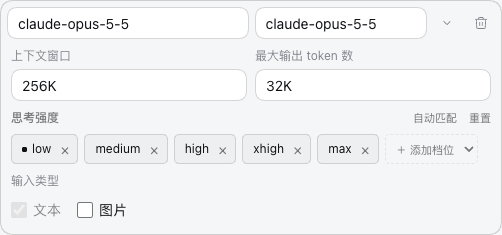
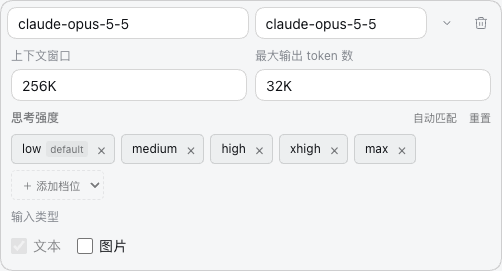
fix: 明确标识模型默认思考档位
将默认档位的小圆点替换为 default 标签，并区分当前默认值与设为默认的提示。

补充默认标签在切换、折叠、保存读回和重置后的页面验证，更新界面截图与验证记录，版本升级为 0.3.1。

diff --git a/src/styles.css b/src/styles.css
@@ -5,6 +5,6 @@
 .dme button:disabled,.dme select:disabled{opacity:.4;cursor:default}.dme-actions button:not(:disabled):hover{color:inherit}
 .dme-chips{display:flex;align-items:center;flex-wrap:wrap;gap:6px;min-height:30px}.dme-chip{display:inline-flex;align-items:center;gap:8px;border:1px solid var(--dme-border);background:color-mix(in srgb,currentColor 3%,transparent);border-radius:6px;padding:5px 7px 5px 10px;font-size:12px;line-height:18px}
 .dme-chip button{border:0;background:transparent;color:var(--dme-muted);padding:0 1px;font:inherit;font-size:15px;line-height:18px;cursor:pointer}.dme-chip button:not(:disabled):hover{color:inherit}
-.dme-chip .dme-level{display:inline-flex;align-items:center;gap:5px;font-size:12px;color:inherit;padding:0}.dme-dot{width:5px;height:5px;border-radius:50%;background:currentColor}
+.dme-chip .dme-level{display:inline-flex;align-items:center;gap:5px;font-size:12px;color:inherit;padding:0}.dme-default{border-radius:3px;background:color-mix(in srgb,currentColor 8%,transparent);color:var(--dme-muted);padding:0 4px;font-size:10px;line-height:16px}
 .dme-add{border:1px dashed var(--dme-border);border-radius:6px;background:transparent;color:var(--dme-muted);font:inherit;font-size:11px;max-width:110px;height:30px;padding:4px 6px;cursor:pointer}.dme-error{font-size:11px;color:#bd3434}
 @media(prefers-color-scheme:dark){.dme-add option{background:#202124;color:#eee}}

diff --git a/src/client.jsx b/src/client.jsx
@@ -55,8 +55,8 @@ function EffortRow({row}) {
     <div className="dme-chips" aria-label="已配置的思考档位">
       {LEVELS.filter(k => active.includes(k)).map(k => <span className="dme-chip" key={k}>
         <button className="dme-level" type="button" disabled={row.disabled} aria-label={'设 ' + k + ' 为默认档位'} aria-pressed={draft.defaultReasoningEffort === k}
-          title="设为默认" onClick={() => change((_current, latest) => ({...latest, defaultReasoningEffort: k}))}>
-          {draft.defaultReasoningEffort === k && <span className="dme-dot" aria-hidden="true"/>}{k}
+          title={draft.defaultReasoningEffort === k ? '默认档位' : '设为默认'} onClick={() => change((_current, latest) => ({...latest, defaultReasoningEffort: k}))}>
+          {k}{draft.defaultReasoningEffort === k && <span className="dme-default">default</span>}
         </button>
         <button type="button" disabled={row.disabled} aria-label={'删除 ' + k + ' 档位'} onClick={() => remove(k)}>×</button>
       </span>)}

diff --git a/docs/VERIFICATION.md b/docs/VERIFICATION.md
@@ -1,6 +1,6 @@
 # 验证记录
 
-日期：2026-10-12。插件：0.3.0。宿主：本机安装的 DeepSeek Harness 0.2.0-rc.2。功能验证运行在隔离的 web profile，使用系统 Chrome。
+日期：2026-10-12。插件：0.3.1。宿主：DeepSeek Harness 0.2.0-rc.2。功能验证运行在隔离的 web profile，使用系统 Chrome。
 
 ## 已验证
 
@@ -16,7 +16,7 @@
 - 容量修改、模型改名、新模型配置和删除前面的模型可以一起保存；重新打开后，各模型档位仍正确对应。
 - 容量无效时，原生校验禁止保存，档位草稿不写入配置。
 - 未知模型的自动匹配禁用，手动添加可用。
-- 点击标签设置默认值，小圆点标记；折叠、保存读回、重置、取消都包含默认值。
+- 默认档位显示可见的 `default` 标签；切换档位后仅新默认值保留该标签，折叠、保存读回和重置后标识正确。
 - 仅修改默认值也能通过原生保存持久化，模型目录读回新的默认值。
 - Opus 默认 medium、手工模型默认 off、新添加的 Sonnet 默认 xhigh，改名和删除其他模型后仍各自对应。
 - 设置明确默认值后，聊天菜单显示 Low、Medium、High、Xhigh、Max，没有 Default，并正确默认选中 Medium。
@@ -29,6 +29,8 @@
 
 目录的 83 个明确 ID（包含官方别名和日期版本）、40 条协议规则均附官方来源；没有逐一请求所有厂商的付费接口。GLM、Kimi 规则限定 QwenCloud 托管端点。
 
-未请求 RightCode 或其他付费模型。0.3.0 已安装并启用到日常 desktop profile，安装后的客户端和服务端文件与构建产物一致。此前 0.2.0 的原生 macOS 设置窗口控件加载已确认；桌面自动点击不稳定，0.3.0 完整操作流程在隔离 web profile 验证。revision 冲突处理沿用原生编辑器，本轮未制造远程冲突进行验证。
+桌面 profile 已升级到 0.3.1，安装版本及客户端、服务端构建文件一致，模型配置在升级前后保持不变。当前已打开的原生窗口仍使用旧客户端，保存编辑内容并重新启动 DSH 后加载新版。完整操作流程在隔离 web profile 验证。
+
+请求验证使用本地模拟 Anthropic 服务；未请求 RightCode 或其他付费模型。revision 冲突处理沿用原生编辑器，本轮未验证远程冲突场景。
 
 页面挂载采用官方 footer 插槽；单模型位置、草稿回调和 PiAiAdapter 的局部默认值适配依赖 DSH 0.2.0-rc.2，宿主升级需复核。默认值是模型扩展字段，禁用插件后字段保留，但请求采用原生行为。
